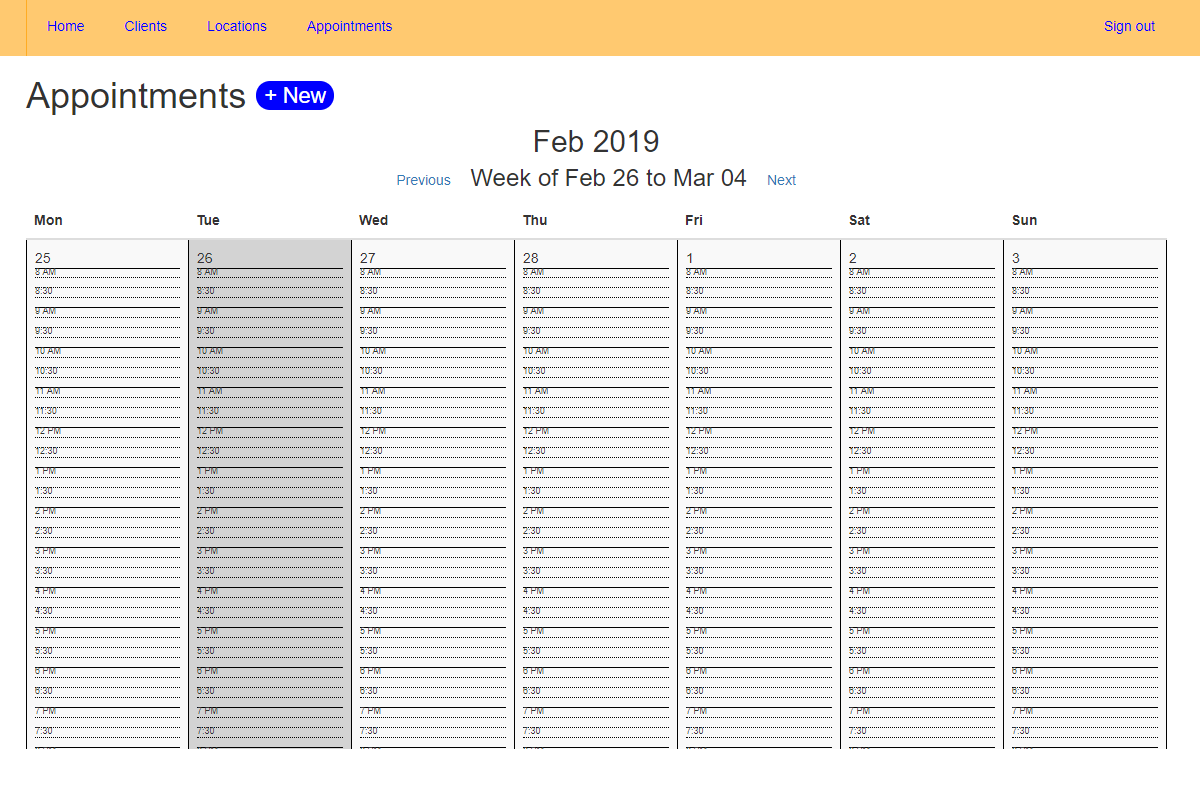
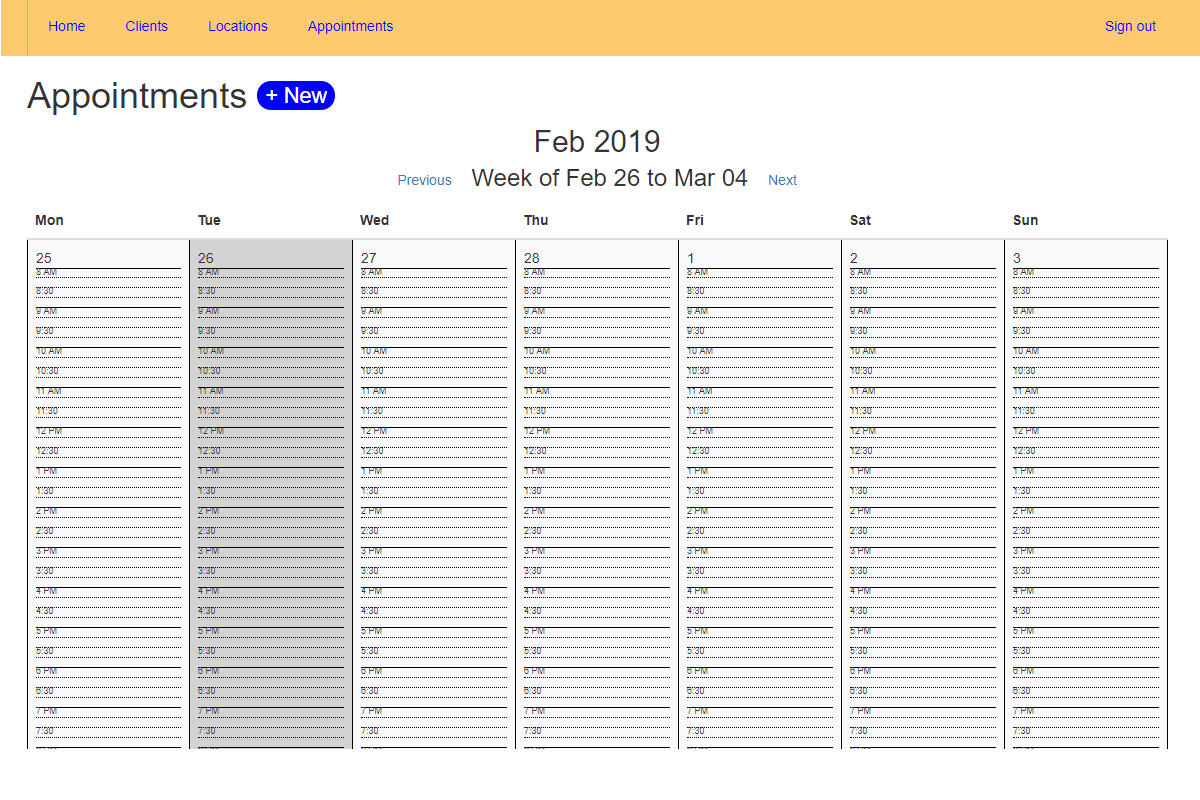
added more projects

diff --git a/app/assets/stylesheets/application.css b/app/assets/stylesheets/application.css
@@ -11,6 +11,8 @@
  * It is generally better to create a new file per style scope.
  *
  *= require font-awesome
+ *= require bootstrap-theme.min
+ *= require bootstrap.min
  *= require_tree .
  *= require_self
  */

diff --git a/app/assets/javascripts/application.js b/app/assets/javascripts/application.js
@@ -13,4 +13,6 @@
 //= require rails-ujs
 //= require activestorage
 //= require turbolinks
+//= require bootstrap.min
+//= require npm
 //= require_tree .
